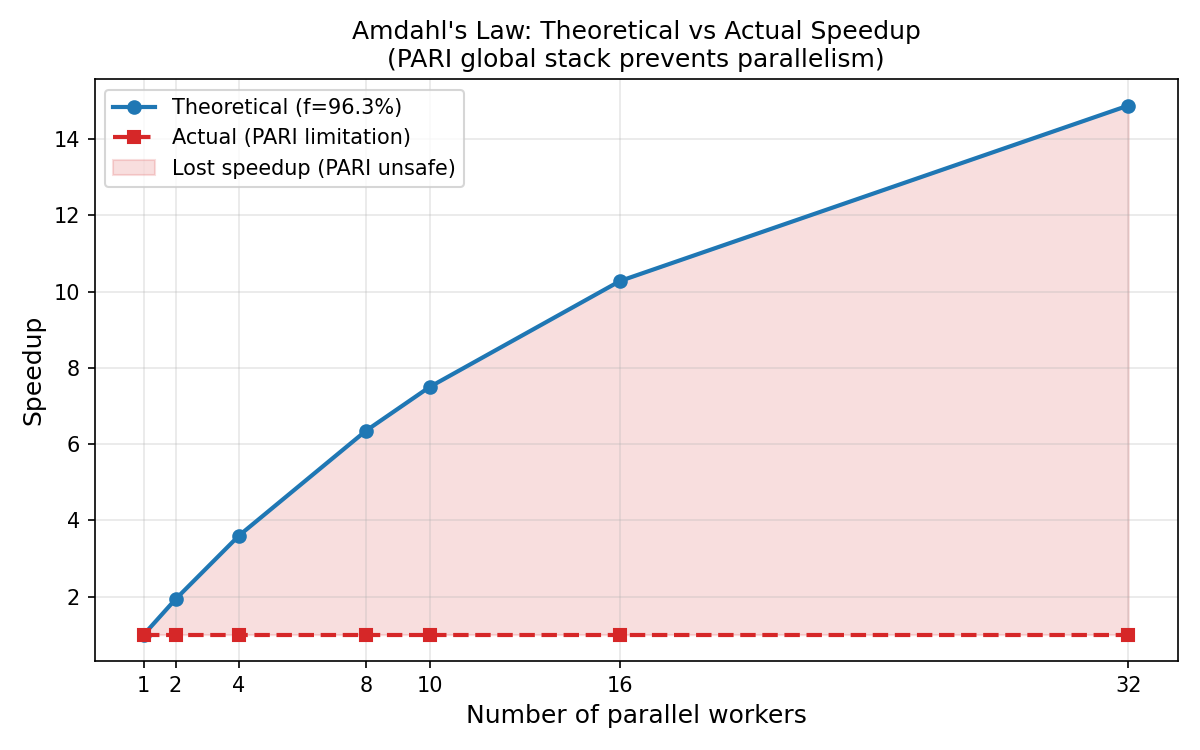
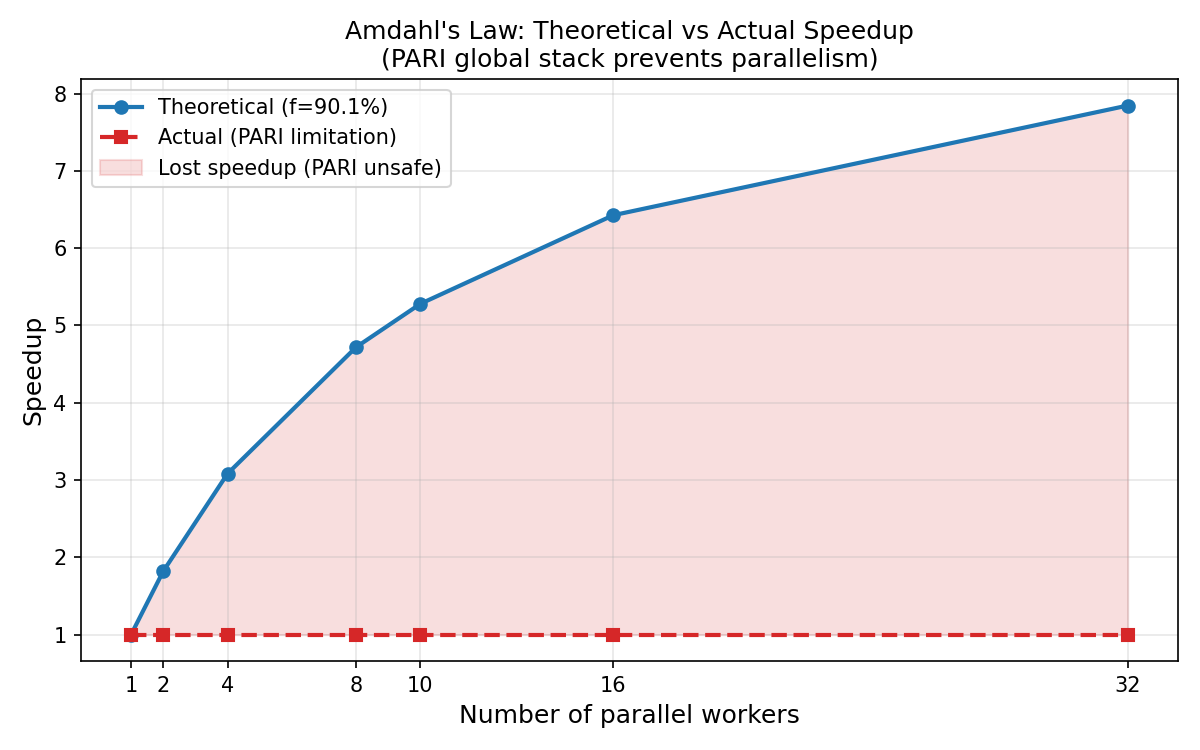
修复sign非线性bug

diff --git a/src/crypto/musig2h.py b/src/crypto/musig2h.py
@@ -62,9 +62,10 @@ def _serialize_pk_list(L):
     return b"".join(_point_to_bytes(pk) for pk in sorted_L)
 
 
-def H_agg(L, pk):
+def H_agg(L, pk, _L_bytes=None):
     """H_agg(L, pk_i) → Z_q, used in KeyAgg."""
-    return _hash(1, _serialize_pk_list(L), _point_to_bytes(pk))
+    L_bytes = _L_bytes if _L_bytes is not None else _serialize_pk_list(L)
+    return _hash(1, L_bytes, _point_to_bytes(pk))
 
 
 def H_non(apk, nonce_points, m):
@@ -113,11 +114,24 @@ def key_agg(L):
     L: list of public keys (curve points)
     apk = Σ H_agg(L, pk_i) · pk_i
     """
-    apk = O
-    for pk_i in L:
-        a_i = H_agg(L, pk_i)
-        apk = point_add(apk, scalar_mult(a_i, pk_i))
+    apk, _ = key_agg_ex(L)
     return apk
+
+
+def key_agg_ex(L):
+    """
+    KeyAgg(L) → (apk, coeffs)
+    Extended version: also returns per-signer aggregation coefficients.
+    coeffs: dict mapping pk → a_i (Z_q scalar)
+    """
+    L_bytes = _serialize_pk_list(L)
+    apk = O
+    coeffs = {}
+    for pk_i in L:
+        a_i = H_agg(L, pk_i, _L_bytes=L_bytes)
+        coeffs[pk_i] = a_i
+        apk = point_add(apk, scalar_mult(a_i, pk_i))
+    return apk, coeffs
 
 
 def presign(rng=None):
@@ -149,9 +163,9 @@ def preagg(pp_list):
     return tuple(app)
 
 
-def sign(st, app, sk, pk, m, L):
+def sign(st, app, sk, pk, m, L, apk=None, a=None):
     """
-    Sign(st, app, sk, pk, m, L) → out = (R, s)
+    Sign(st, app, sk, pk, m, L, [apk, a]) → out = (R, s)
 
     st:  secret nonce pairs (r_1, ..., r_4), each r_j = (r_j0, r_j1) ∈ Z_q²
     app: aggregated nonces (R_1, ..., R_4), curve points
@@ -159,15 +173,19 @@ def sign(st, app, sk, pk, m, L):
     pk:  signing public key (curve point)
     m:   message (bytes)
     L:   list of other signers' public keys (excluding own pk)
+    apk: (optional) precomputed aggregated public key, skips KeyAgg recomputation
+    a:   (optional) precomputed H_agg(L∪{pk}, pk), skips H_agg recomputation
     """
     # L ← L ∪ {pk}
     L_full = list(L) + [pk]
 
-    # apk ← KeyAgg(L)
-    apk = key_agg(L_full)
+    # apk ← KeyAgg(L)  [use precomputed if available]
+    if apk is None:
+        apk = key_agg(L_full)
 
-    # a ← H_agg(L, pk)
-    a = H_agg(L_full, pk)
+    # a ← H_agg(L, pk)  [use precomputed if available]
+    if a is None:
+        a = H_agg(L_full, pk)
 
     # (R_1, ..., R_4) ← app
     # b ← H_non(apk, (R_1,...,R_4), m)

diff --git a/src/crypto/signer.py b/src/crypto/signer.py
@@ -32,6 +32,8 @@ class Signer:
         self._pp = None      # own nonce commitments (public)
         self._st = None      # own nonce secrets (private)
         self._app = None     # aggregated nonce commitments
+        self._apk = None     # precomputed aggregated public key
+        self._a = None       # precomputed own aggregation coefficient
 
     def set_peers(self, peer_pks):
         """
@@ -40,6 +42,16 @@ class Signer:
         peer_pks: list of curve points
         """
         self._peers = list(peer_pks)
+
+    def set_agg_key(self, apk, a):
+        """
+        Cache precomputed aggregated public key and own aggregation coefficient.
+
+        apk: aggregated public key (curve point)
+        a:   H_agg(L, pk) for this signer (Z_q scalar)
+        """
+        self._apk = apk
+        self._a = a
 
     def presign(self):
         """
@@ -77,7 +89,8 @@ class Signer:
         if self._app is None:
             raise RuntimeError("must call receive_agg_nonce() first")
 
-        out = sign(self._st, self._app, self.sk, self.pk, message, self._peers)
+        out = sign(self._st, self._app, self.sk, self.pk, message, self._peers,
+                   apk=self._apk, a=self._a)
 
         # destroy nonce after use, prevent reuse which could leak secret key
         self._st = None

diff --git a/scripts/profile_musig2h.py b/scripts/profile_musig2h.py
@@ -297,7 +297,7 @@ def main():
 
     print()
     print("╔══════════════════════════════════════════════════════════════╗")
-    print("║     MuSig2-H Profiling & PARI Thread Safety Analysis       ║")
+    print("║     MuSig2-H Profiling & PARI Thread Safety Analysis         ║")
     print("╚══════════════════════════════════════════════════════════════╝")
     print()
 
@@ -308,7 +308,7 @@ def main():
         print("[SKIP] Thread crash experiment (--skip-crash)\n")
 
     # Experiment B
-    n_list = [1, 2, 3, 5, 8, 10, 15, 20]
+    n_list = [1, 2, 5, 10, 20, 50, 100, 150]
     all_data = bench_scalability(n_list, warmup=args.warmup, repeats=args.repeats)
 
     # Experiment C

diff --git a/src/crypto/parallel_signing.py b/src/crypto/parallel_signing.py
@@ -14,7 +14,7 @@ For true parallelism, use C++ (RELIC) multithreading or multiprocessing + serial
 import time
 
 from src.crypto.signer import Signer
-from src.crypto.musig2h import key_agg, preagg, sign_agg, ver
+from src.crypto.musig2h import key_agg_ex, preagg, sign_agg, ver
 
 
 def run_protocol(n_signers, message, seed=42):
@@ -51,9 +51,10 @@ def run_protocol(n_signers, message, seed=42):
     # 2. KeyAgg ← sequential: aggregate after collecting all public keys
     t0 = time.perf_counter()
     all_pks = [s.pk for s in signers]
-    apk = key_agg(all_pks)
+    apk, coeffs = key_agg_ex(all_pks)
     for s in signers:
         s.set_peers([pk for pk in all_pks if pk != s.pk])
+        s.set_agg_key(apk, coeffs[s.pk])
     timing["keyagg"] = time.perf_counter() - t0
 
     # 3. PreSign × n ← parallelizable: each signer generates nonces independently

diff --git a/docs/pari_thread_safety.md b/docs/pari_thread_safety.md
@@ -125,11 +125,11 @@ app = preagg(pp_list)
 
 ### 6.2 如需真正并行执行
 
-| 方案 | 可行性 | 说明 |
-|------|--------|------|
-| C++ 多线程 + RELIC 库 | 推荐 | RELIC 是线程安全的椭圆曲线库，可扩展 Part 1 的 C++ 多线程框架 |
-| 多进程 + 手动序列化 | 可行但复杂 | 将曲线点转为 (x, y) 整数对传输，接收端重建 Sage 对象 |
-| 单线程 + asyncio | 无意义 | 椭圆曲线运算是 CPU 密集型，异步 I/O 无法加速 |
+| 方案                  | 可行性     | 说明                                                          |
+| --------------------- | ---------- | ------------------------------------------------------------- |
+| C++ 多线程 + RELIC 库 | 推荐       | RELIC 是线程安全的椭圆曲线库，可扩展 Part 1 的 C++ 多线程框架 |
+| 多进程 + 手动序列化   | 可行但复杂 | 将曲线点转为 (x, y) 整数对传输，接收端重建 Sage 对象          |
+| 单线程 + asyncio      | 无意义     | 椭圆曲线运算是 CPU 密集型，异步 I/O 无法加速                  |
 
 ---
 
